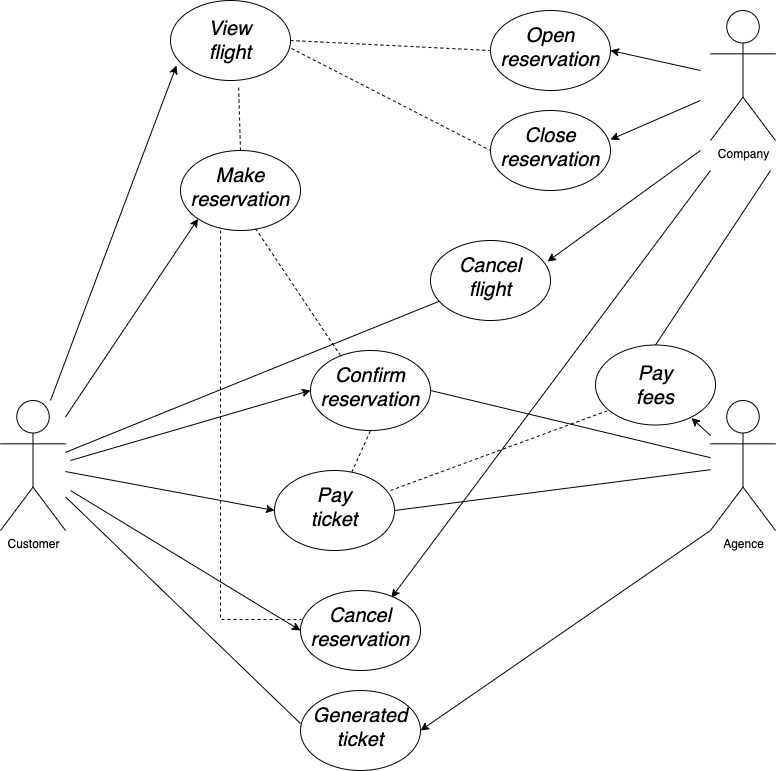
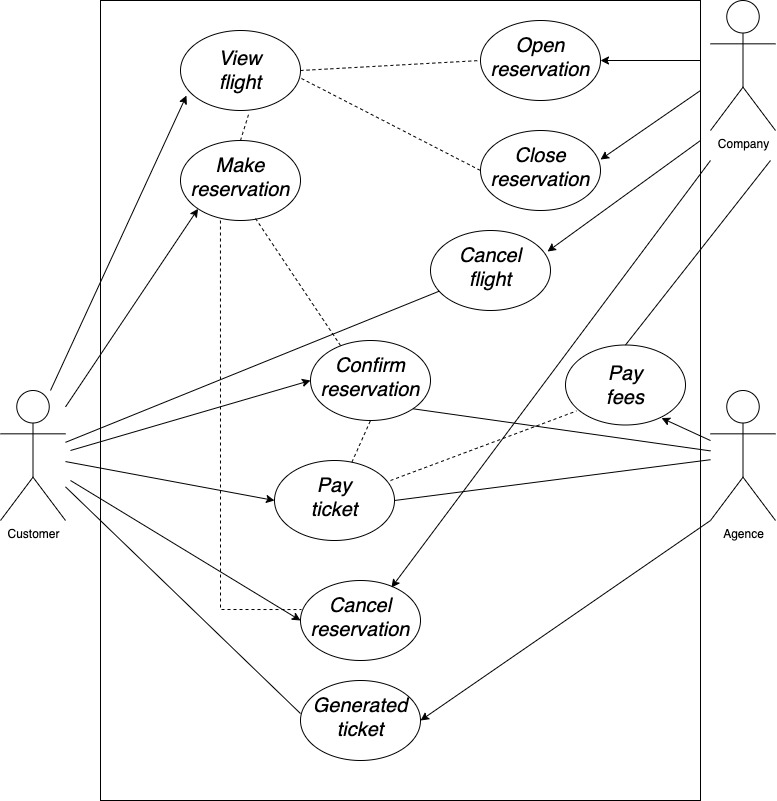
adding more info in readme and class diagram drawio file

diff --git a/README.md b/README.md
@@ -1,1 +1,36 @@
-# exerciseUML
+<h1 align="center">Welcome to exerciseUML 👋</h1>
+<p>
+  <img alt="Version" src="https://img.shields.io/badge/version-1-blue.svg?cacheSeconds=2592000" />
+</p>
+
+> Brief UML exercise for Simplon - Application Designer Developer
+
+## Contexte du projet
+Your client, a travel agency, wants to offer the possibility of booking plane tickets online to their customers.
+
+Your mission is to design the platform modeling using the UML standard.
+
+The platform should allow:
+  - Airlines offer different flights.
+  - A flight is open for booking and closed by order of the company.
+  - A flight can be canceled by the company
+  - A customer can book one or more flights, for different passengers.
+  - A reservation concerns a single flight and a single passenger.
+  - A reservation can be canceled or confirmed.
+  - A flight has a departure airport and an arrival airport.
+  - A flight has a departure day and time, and an arrival day and time.
+  - A flight may include stopovers at airports.
+  - A stopover has an arrival time and a departure time.
+  - Each airport serves one or more cities.
+
+## Author
+
+👤 **Marie Baude**
+
+
+## Show your support
+
+Give a ⭐ if this project helped you!
+
+***
+_This README was generated with ❤ by [readme-md-generator](https://github.com/kefranabg/readme-md-generator)_
